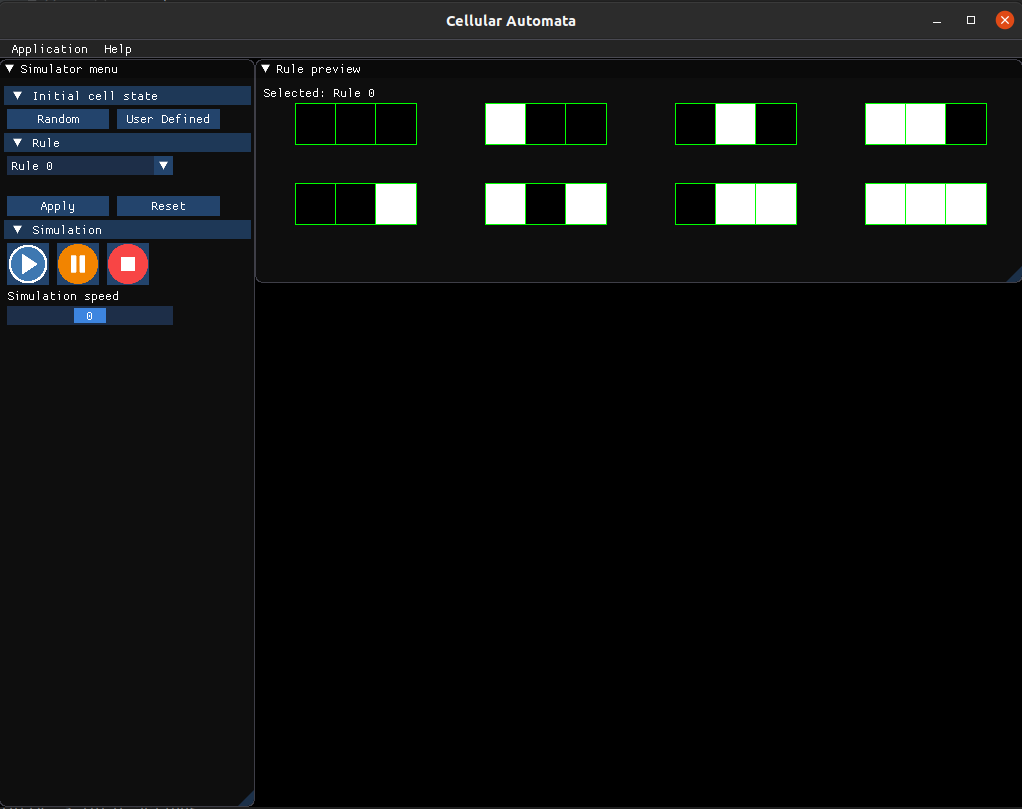
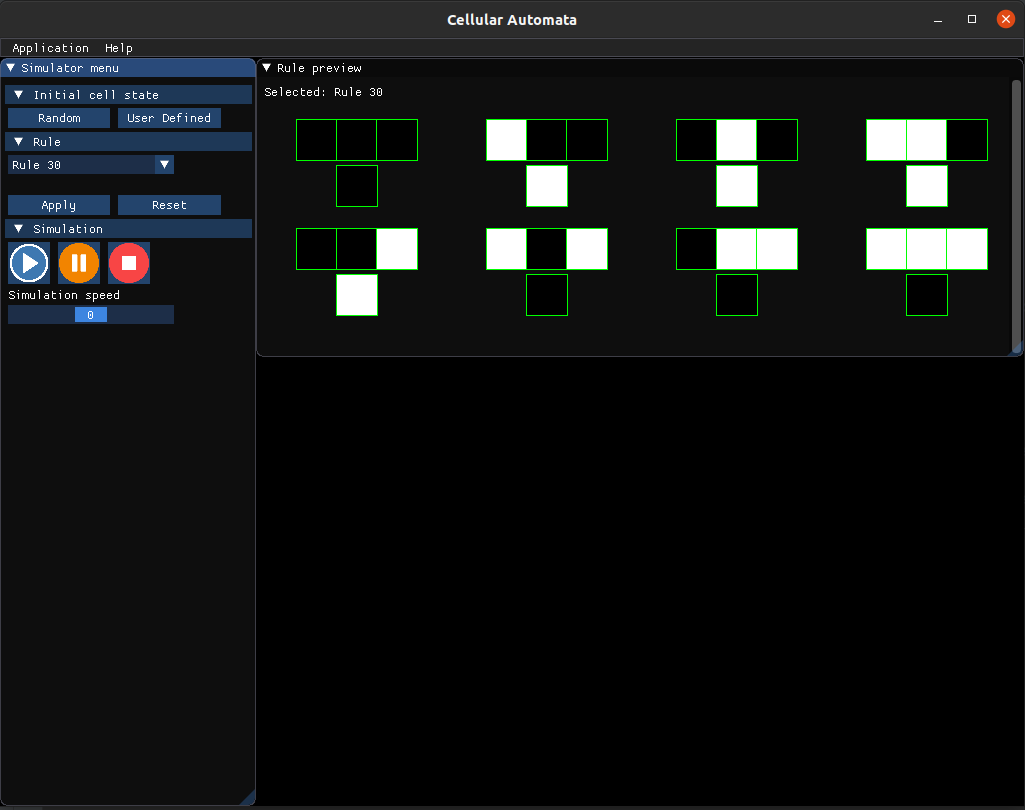
RulePreview: Add new cell state preview

diff --git a/GUI/src/rule_preview.cpp b/GUI/src/rule_preview.cpp
@@ -1,0 +1,109 @@
+#include "GUI/src/rule_preview.h"
+
+#include "GUI/src/config.h"
+#include "GUI/src/assets.h"
+
+#include "ThirdParty/imgui/imgui.h"
+#include "ThirdParty/imgui/imgui-SFML.h"
+#include "ThirdParty/fmt/include/fmt/core.h"
+
+RulePreview::RulePreview(std::pair<std::string, std::bitset<8>> &current_rule) : current_rule_(current_rule) {}
+
+void RulePreview::Show()
+{
+  ImGui::SetNextWindowPos(Config::RulePreview::ORIGIN);
+  ImGui::SetNextWindowSize(Config::RulePreview::SIZE);
+  ImGui::Begin("Rule preview");
+
+  ImGui::Text("%s", fmt::format("Selected: {}", current_rule_.first).c_str());
+  ImGui::NewLine();
+  ImGui::NewLine();
+
+  for (std::size_t row{0}; row <= 3; row++)
+  {
+	if (row == 0) CreateCurrentPatternCellGroupRow(0, 3);
+	if (row == 1) CreateNewStateCellRow(0, 3);
+	if (row == 2) CreateCurrentPatternCellGroupRow(4, 7);
+	if (row == 3) CreateNewStateCellRow(4, 7);
+	ImGui::NewLine();
+  }
+  ImGui::End();
+}
+
+void RulePreview::CreateCurrentPatternCellGroup(const std::size_t cell_group_index)
+{
+  float cell_offset{0.0};
+
+  std::bitset<3> cell_group_index_in_binary{cell_group_index};
+  for (std::size_t i{0}; i <= 2; i++)
+  {
+	if (i == 0)
+	{
+	  cell_offset = CalculateCurrentPatternCellGroupStartXPosition(cell_group_index);
+	}
+
+	ImGui::SameLine(cell_offset += Config::RulePreview::CELL_SIZE.x, 0.0f);
+	ImGui::PushID(i);
+	VisualizeCellState(cell_group_index_in_binary[i]);
+	ImGui::PopID();
+  }
+}
+
+void RulePreview::CreateNewStateCell(const std::size_t cell_index)
+{
+  const float cell_offset = CalculateNewStateCellXPosition(cell_index);
+
+  ImGui::SameLine(cell_offset, 0.0f);
+  ImGui::PushID(cell_index);
+  VisualizeCellState(current_rule_.second[cell_index]);
+  ImGui::PopID();
+}
+
+float RulePreview::CalculateCurrentPatternCellGroupStartXPosition(std::size_t cell_group_element_index)
+{
+  constexpr uint8_t last_cell_group_element_index{4};
+  if (cell_group_element_index >= last_cell_group_element_index)
+  {
+	cell_group_element_index -= 4;
+  }
+  return Config::RulePreview::CELL_GROUP_OFFSET * cell_group_element_index;
+}
+
+float RulePreview::CalculateNewStateCellXPosition(std::size_t cell_element_index)
+{
+  if (cell_element_index > 3)
+  {
+	cell_element_index -= 4;
+  }
+  return cell_element_index == 0 ? Config::RulePreview::NEW_STATE_CELL_OFFSET :
+		 Config::RulePreview::NEW_STATE_CELL_OFFSET + (Config::RulePreview::CELL_GROUP_OFFSET * cell_element_index);
+}
+
+void RulePreview::VisualizeCellState(bool cell_state)
+{
+  if (cell_state == 0)
+  {
+	ImGui::Image(*Assets::GetBlackCell(), Config::RulePreview::CELL_SIZE, sf::Color::White, sf::Color::Green);
+  } else
+  {
+	ImGui::Image(*Assets::GetWhiteCell(), Config::RulePreview::CELL_SIZE, sf::Color::White, sf::Color::Green);
+  }
+}
+
+void RulePreview::CreateCurrentPatternCellGroupRow(std::size_t start_index, std::size_t end_index)
+{
+  for (; start_index <= end_index; start_index++)
+  {
+	CreateCurrentPatternCellGroup(start_index);
+  }
+}
+
+void RulePreview::CreateNewStateCellRow(std::size_t start_index, std::size_t end_index)
+{
+  for (; start_index <= end_index; start_index++)
+  {
+	CreateNewStateCell(start_index);
+  }
+  ImGui::NewLine();
+}
+

diff --git a/GUI/src/rule_preview.h b/GUI/src/rule_preview.h
@@ -1,80 +1,27 @@
 #ifndef GAMEOFLIFE_GUI_SRC_RULE_PREVIEW_H_
 #define GAMEOFLIFE_GUI_SRC_RULE_PREVIEW_H_
 
-#include "Simulator/src/data.h"
+#include <string>
+#include <bitset>
 
-#include "GUI/src/assets.h"
-#include "ThirdParty/imgui/imgui.h"
-#include "ThirdParty/imgui/imgui-SFML.h"
-#include "ThirdParty/fmt/include/fmt/core.h"
-
-#include <SFML/Graphics.hpp>
-
-namespace RulePreview
+class RulePreview
 {
-	void CreateCellPattern(std::size_t pattern_number);
+  public:
+	explicit RulePreview(std::pair<std::string, std::bitset<8>> &current_rule);
 
-	void Show()
-	{
-	  ImGui::SetNextWindowPos(Config::RulePreview::ORIGIN);
-	  ImGui::SetNextWindowSize(Config::RulePreview::SIZE);
-	  ImGui::Begin("Rule preview");
+	/// @brief Displays the rule preview window
+	void Show();
 
-	  ImGui::Text("%s", fmt::format("Selected: {}", Data::current_rule.first).c_str());
-	  ImGui::NewLine();
+  private:
+	void CreateCurrentPatternCellGroup(std::size_t cell_group_index);
+	void CreateNewStateCell(std::size_t cell_index);
+	float CalculateCurrentPatternCellGroupStartXPosition(std::size_t cell_group_element_index);
+	float CalculateNewStateCellXPosition(std::size_t cell_element_index);
+	void VisualizeCellState(bool cell_state);
+	void CreateCurrentPatternCellGroupRow(std::size_t start_index, std::size_t end_index);
+	void CreateNewStateCellRow(std::size_t start_index, std::size_t end_index);
 
-	  for (std::size_t i{0}; i <= 7; i++)
-	  {
-		CreateCellPattern(i);
-	  }
-
-	  ImGui::End();
-	}
-
-	float CalculateCellGroupStartXPosition(float value)
-	{
-	  constexpr float offset{190.0};
-	  if (value >= 4)
-	  {
-		value -= 4;
-	  }
-	  return offset * value;
-	}
-
-	void CreateCellPattern(std::size_t pattern_number)
-	{
-	  float cell_offset{0.0};
-
-	  if (pattern_number == 4)
-	  {
-		ImGui::NewLine();
-		ImGui::NewLine();
-		ImGui::NewLine();
-	  }
-
-	  std::bitset<3> binary_pattern_number{pattern_number};
-	  for (std::size_t i{0}; i <= 2; i++)
-	  {
-		if (i == 0)
-		{
-		  cell_offset = CalculateCellGroupStartXPosition(pattern_number);
-		}
-
-		ImGui::SameLine(cell_offset += 40, 0.0f);
-
-		ImGui::PushID(i);
-
-		if (binary_pattern_number[i] == 0)
-		{
-		  ImGui::Image(*Assets::GetBlackCell(), {40, 40}, sf::Color::White, sf::Color::Green);
-		} else
-		{
-		  ImGui::Image(*Assets::GetWhiteCell(), {40, 40}, sf::Color::White, sf::Color::Green);
-		}
-
-		ImGui::PopID();
-	  }
-	}
-}
+	std::pair<std::string, std::bitset<8>> &current_rule_;
+};
 
 #endif //GAMEOFLIFE_GUI_SRC_RULE_PREVIEW_H_

diff --git a/GUI/src/config.h b/GUI/src/config.h
@@ -34,10 +34,14 @@ namespace Config
 	{
 		constexpr float VERTICAL_OFFSET{20.0};
 		constexpr float WIDTH{Screen::WIDTH - MainMenu::WIDTH};
-		constexpr float HEIGHT{(Screen::HEIGHT - VERTICAL_OFFSET) * 0.3};
+		constexpr float HEIGHT{(Screen::HEIGHT - VERTICAL_OFFSET) * 0.4};
+		constexpr float CELL_GROUP_OFFSET{190.0};
 
 		const ImVec2 ORIGIN{MainMenu::WIDTH, VERTICAL_OFFSET};
 		const ImVec2 SIZE{WIDTH, HEIGHT};
+		const ImVec2 CELL_SIZE{40.0, 40.0};
+
+		const float NEW_STATE_CELL_OFFSET{80};
 
 		static bool SHOW{true};
 	}

diff --git a/runner.cpp b/runner.cpp
@@ -20,6 +20,7 @@ int main()
   Data::rules = Rules::CreateBasicRules();
   Data::current_rule = Data::rules.front();
   Assets::Initialize();
+  RulePreview rule_preview{Data::current_rule};
 
   sf::Clock deltaClock;
   while (window.isOpen() && !Config::MenuBar::QUIT)
@@ -40,7 +41,7 @@ int main()
 
 	if (Config::RulePreview::SHOW)
 	{
-	  RulePreview::Show();
+	  rule_preview.Show();
 	}
 
 	window.clear();
